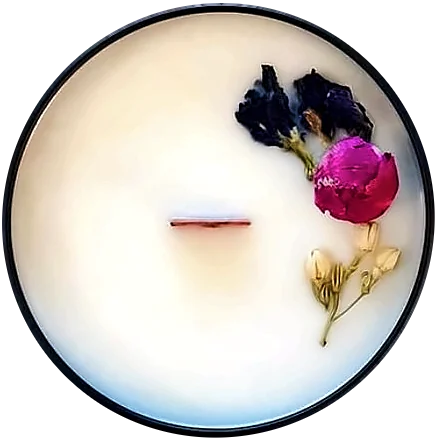
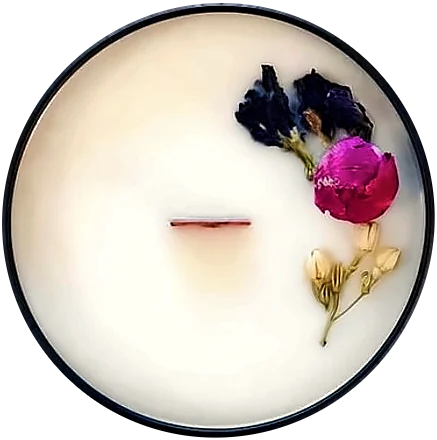
Warm the Journal candles' wax: take out the blue cast at the lower edge
The single-tin cut-outs picked up a cool, bluish cast on the wax towards the
tin's lower edge (window light off the rim), which read as a cyan stain on the
light cards. journal_singles.py now reads each candle's own wax colour from the
middle of its face and pulls any cooler wax to it, keeping its lightness, so the
wax is one warm ivory edge to edge. Toppings, tin, rim and wick are masked out
and left untouched. All five images regenerated.

Claude-Session: https://claude.ai/code/session_01RanBWMym3Yx8zSFUMRBnKQ

Changed region(s): [[0.119, 0.7386, 0.8924, 0.975], [0.4165, 0.4727, 0.5355, 0.5023]]

diff --git a/tools/photo/journal_singles.py b/tools/photo/journal_singles.py
@@ -5,11 +5,18 @@ each. Each is one tin out of a bench photograph already cut by tin_cutouts.py, c
 analytically), with the rim width measured over the whole group (measured on one tin alone it takes in the neighbours'
 wax). Written at the cut-out's own size (never enlarged; about 440 to 500 px).
 
+The wax then gets one colour correction (warm_wax): in the photographs the white wax picks up a cool, bluish cast towards
+the tin's lower edge (the daylight from the window, reflected off the rim), which reads as a cyan stain on a light page.
+Each candle's own wax colour is read from the middle of its face, and wherever the wax is cooler than that, its colour is
+pulled to it, keeping the pixel's lightness (so the soft shading of the wax stays). Only pale, nearly neutral pixels count
+as wax: the toppings (wood chips, flowers, stones), the black tin, the rim and the wick are left exactly as they were.
+
 Usage: python3 -I tools/photo/journal_singles.py <repo>/public/img/studio
 """
 import os, sys
 import numpy as np
 import cv2
+from PIL import Image
 
 HERE = os.path.dirname(os.path.abspath(__file__))
 sys.path.insert(0, HERE)
@@ -25,6 +32,45 @@ ONE = {
     'candle-and-roller': ('spring-blooms', 2), # dried flowers and buds
 }
 
+
+def smooth(x, a, b):
+    t = np.clip((x - a) / (b - a), 0, 1)
+    return t * t * (3 - 2 * t)
+
+
+def warm_wax(im: Image.Image) -> Image.Image:
+    """Neutralise the cool cast on the wax: pull the colour (a*, b*) of every pale, near-neutral pixel that is cooler than
+    the wax in the middle of the face to that warm ivory, keeping its lightness. Returns a new RGBA image."""
+    rgba = np.asarray(im.convert('RGBA')).astype(np.float32)
+    rgb, alpha = rgba[..., :3] / 255.0, rgba[..., 3]
+    lab = cv2.cvtColor(rgb, cv2.COLOR_RGB2LAB)  # L 0..100, a/b about -127..127
+    L, A, B = lab[..., 0], lab[..., 1], lab[..., 2]
+    h, w = L.shape
+    ys, xs = np.mgrid[0:h, 0:w].astype(np.float32)
+    r = np.hypot((xs - w / 2) / (w / 2), (ys - h / 2) / (h / 2))
+    chroma = np.hypot(A, B)
+    # the reference: pale, low-chroma wax in the middle third of the face (the toppings and the wick left out)
+    ref = (alpha > 250) & (r < 0.45) & (L > 85) & (chroma < 30)
+    ta, tb = float(np.median(A[ref])), float(np.median(B[ref]))
+    # the toppings, kept as they are: anything strongly coloured (petals, chips, the butterfly-pea flowers) or dark (stones,
+    # the wick) inside the face, with a few pixels round each. (The rim, dark too, is the outer tenth of the cut-out; it is
+    # too dark to count as wax anyway, and leaving it out of this mask lets the wax right up against it be corrected.)
+    top = ((chroma > 28) | (L < 50)) & (r < 0.86) & (alpha > 250)
+    top = cv2.dilate(top.astype(np.uint8), cv2.getStructuringElement(cv2.MORPH_ELLIPSE, (7, 7))).astype(np.float32)
+    # how surely a pixel is wax: light (well above the rim, the wick and the toppings), not strongly coloured, inside the
+    # cut-out, not a topping, and cooler than the reference (a warmer pixel is left alone). The cast runs from a faint
+    # grey-blue to a clear cyan (b* down to about -24) next to the rim, so the colour limit is wide on the cool side.
+    m = smooth(L, 55, 70) * (1 - smooth(chroma, 28, 36)) * smooth(alpha, 200, 255) * smooth(tb - B, 0, 2) * (1 - top)
+    m = cv2.GaussianBlur(m, (0, 0), 1.0)  # no hard seams
+    lab2 = lab.copy()
+    lab2[..., 1] = A + (ta - A) * m
+    lab2[..., 2] = B + (tb - B) * m
+    out = np.clip(cv2.cvtColor(lab2, cv2.COLOR_LAB2RGB), 0, 1) * 255
+    res = np.dstack([out, alpha]).round().astype(np.uint8)
+    print(f'  wax reference a* {ta:.1f} b* {tb:.1f}; {int((m > 0.5).sum())} px warmed')
+    return Image.fromarray(res, 'RGBA')
+
+
 if __name__ == '__main__':
     studio = sys.argv[1]
     os.makedirs(f'{studio}/journal', exist_ok=True)
@@ -37,6 +83,9 @@ if __name__ == '__main__':
             cfg['rim'] = T.rim_width(cv2.cvtColor(bgr, cv2.COLOR_BGR2LAB).astype(np.float32), es)
         cfg['tins'] = [cfg['tins'][k]]
         name = f'journal-tmp-{slug}'
-        T.cutout(name, cfg, studio, None)
-        os.replace(f'{studio}/tins/{name}-900.webp', f'{studio}/journal/{slug}.webp')
-        os.remove(f'{studio}/tins/{name}-480.webp')
+        im = T.cutout(name, cfg, studio, None)  # (narrower than 900 px, so this is the size written)
+        for wd in T.WIDTHS:
+            os.remove(f'{studio}/tins/{name}-{wd}.webp')
+        assert im.width <= 900
+        print(slug)
+        warm_wax(im).save(f'{studio}/journal/{slug}.webp', 'WEBP', quality=86, method=6)
